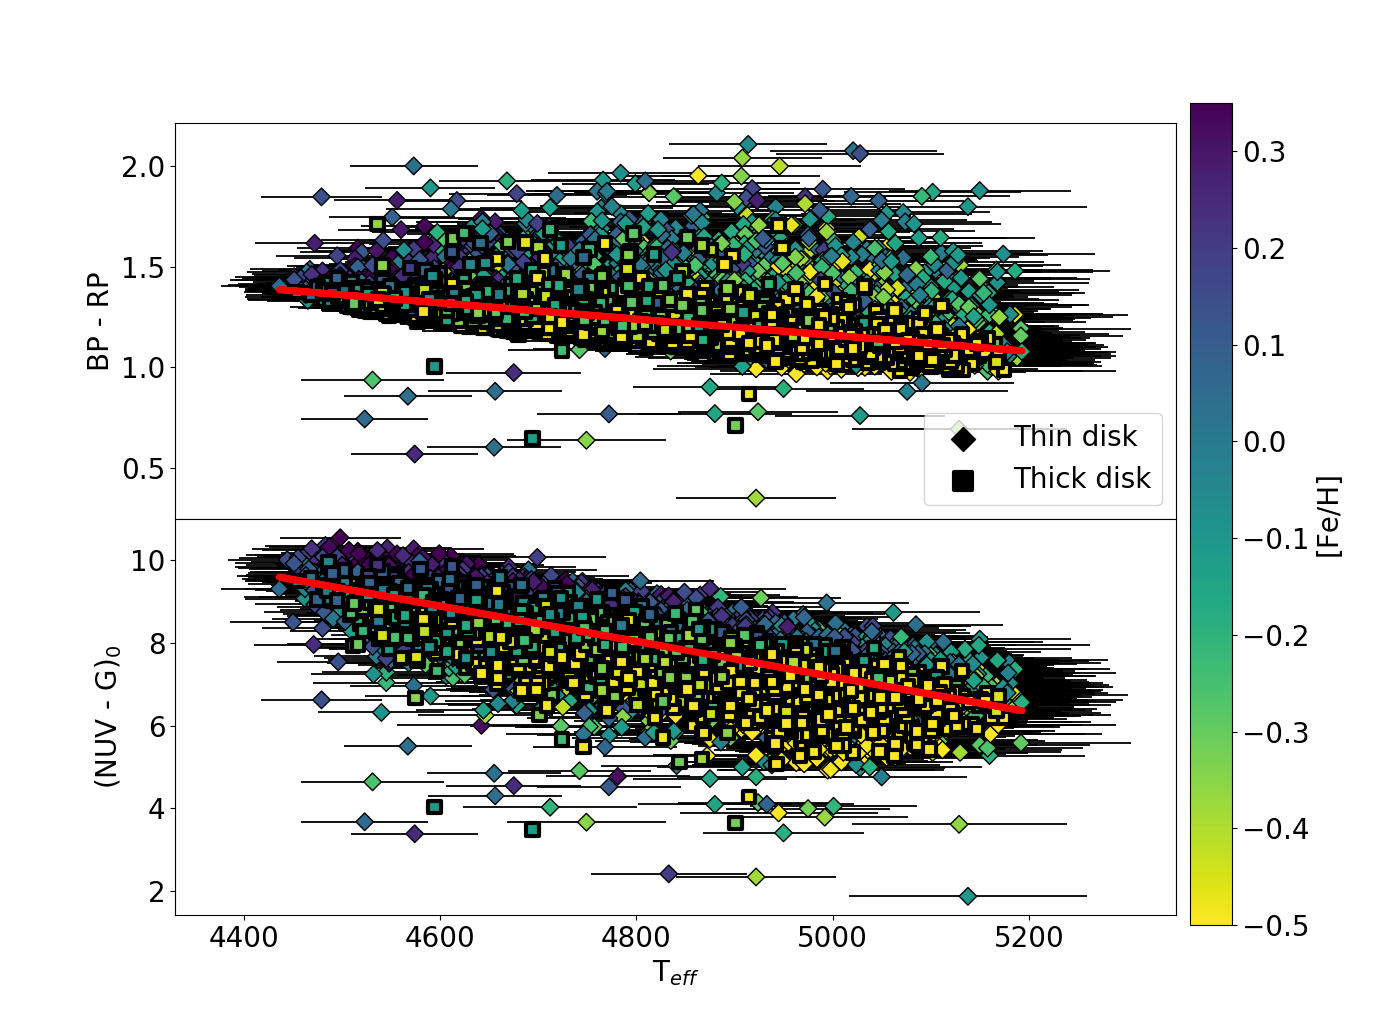
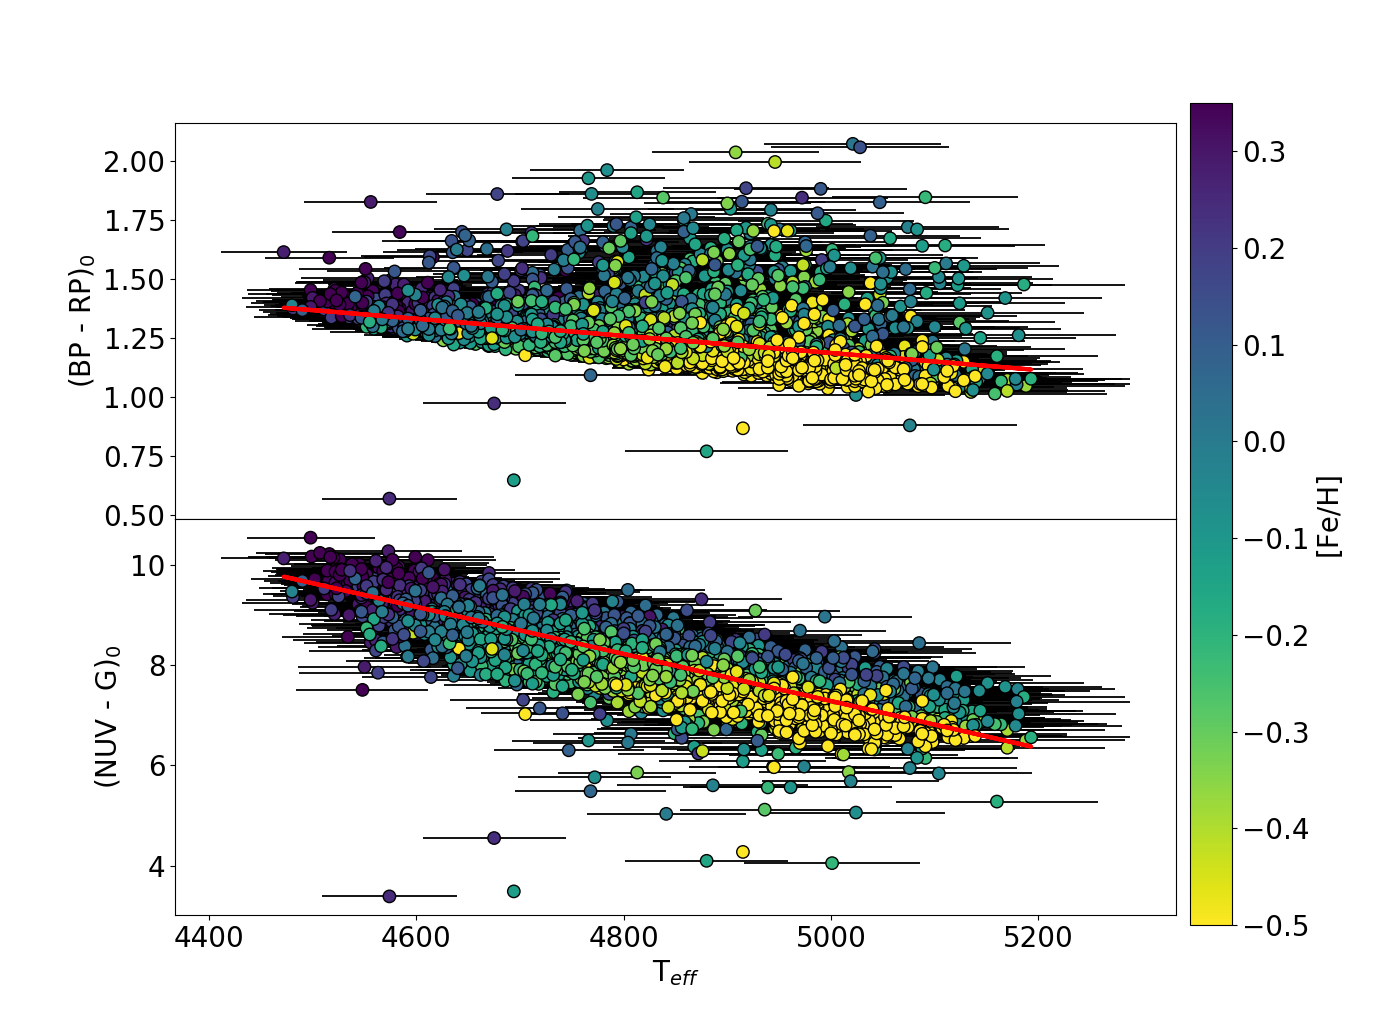
new paper plots

diff --git a/pipeline/misc.py b/pipeline/misc.py
@@ -546,10 +546,11 @@ for scan in pscats:
 ######################################################################
 # Color vs TEFF vs Fe/H
 ######################################################################
-m = (0.095-.21)/(0+0.8)
-b = 0.095
+m = (0.265-0.065)/(-0.88-0.02)
+b = 0.0694
 thick, = np.where((rc['ALPHAFE'] > 0.08) & (rc['ALPHAFE'] > (m*rc['FE_H'] + b)))
 thin, = np.where((rc['ALPHAFE'] < 0.08) | (rc['ALPHAFE'] < (m*rc['FE_H'] + b)))
+
 #y1 = (rc['B_apass']-rc['ebv']*3.626)-(rc['V_apass']-rc['ebv']*2.742)
 y1 = rc['phot_bp_mean_mag']-rc['phot_rp_mean_mag']
 y2 = (rc['nuv_mag']-rc['ebv']*7.24)-(rc['phot_g_mean_mag']-rc['ebv']*3.303)
@@ -562,22 +563,22 @@ line2 = m2*x + b2
 err2 = np.sqrt(np.sum((line2-y2)**2/len(y2)))
 
 fig, (ax1, ax2) = plt.subplots(2, 1)
-cmap = ax1.scatter(x[thin], y1[thin], s=80, c=rc['FE_H'][thin], cmap=cm.viridis_r, vmin=-.5, vmax=.35, marker='D', label='Thin disk', edgecolor='black')
-ax1.scatter(x[thick], y1[thick], s=80, c=rc['FE_H'][thick], cmap=cm.viridis_r, vmin=-.5, vmax=.35, marker='s', label='Thick disk', edgecolor='black', linewidth=3)
+cmap = ax1.scatter(x[thin], y1[thin], s=80, c=rc['FE_H'][thin], cmap=cm.viridis_r, vmin=-.5, vmax=.35, label='Thin disk', edgecolor='black')
+ax1.scatter(x[thick], y1[thick], s=80, c=rc['FE_H'][thick], cmap=cm.viridis_r, vmin=-.5, vmax=.35, label='Thick disk', edgecolor='black', linewidth=1)
 #ax1.errorbar(x[thin], y1[thin], xerr=rc['TEFF_ERR'][thin], yerr=(rc['Berr_apass']-rc['Verr_apass'])[thin], ecolor='black', fmt=None, marker=None, mew=0, elinewidth=1.3, **{"zorder":0})
 ax1.errorbar(x[thin], y1[thin], xerr=rc['TEFF_ERR'][thin], ecolor='black', fmt=None, marker=None, mew=0, elinewidth=1.3, **{"zorder":0})
 
-ax1.plot(x, line1, linewidth=5, c='red', zorder=10)
+ax1.plot(x, line1, linewidth=3, c='red', zorder=10)
 
-ax2.scatter(x[thin], y2[thin], s=80, c=rc['FE_H'][thin], cmap=cm.viridis_r, vmin=-.5, vmax=.35, marker='D', edgecolor='black')
-ax2.scatter(x[thick], y2[thick], s=80, c=rc['FE_H'][thick], cmap=cm.viridis_r, vmin=-.5, vmax=.35, marker='s', edgecolor='black', linewidth=3)
+ax2.scatter(x[thin], y2[thin], s=80, c=rc['FE_H'][thin], cmap=cm.viridis_r, vmin=-.5, vmax=.35, edgecolor='black')
+ax2.scatter(x[thick], y2[thick], s=80, c=rc['FE_H'][thick], cmap=cm.viridis_r, vmin=-.5, vmax=.35, edgecolor='black', linewidth=1)
 #ax2.errorbar(x[thin], y2[thin], xerr=rc['TEFF_ERR'][thin], yerr=(rc['nuv_magerr']-rc['Gerr'])[thin], ecolor='black', fmt=None, marker=None, mew=0, elinewidth=1.3, **{"zorder":0})
 ax2.errorbar(x[thin], y2[thin], xerr=rc['TEFF_ERR'][thin], ecolor='black', fmt=None, marker=None, mew=0, elinewidth=1.3, **{"zorder":0})
 
-ax2.plot(x, line2, linewidth=5, c='red', zorder=10)
+ax2.plot(x, line2, linewidth=3, c='red', zorder=10)
 
 #ax1.set_xlabel('T$_{eff}$')
-ax1.set_ylabel('BP - RP')
+ax1.set_ylabel('(BP - RP)$_0$')
 ax2.set_xlabel('T$_{eff}$')
 ax2.set_ylabel('(NUV - G)$_0$')
 #ax1.set_xlim((4300, 5200))
@@ -587,11 +588,13 @@ ax2.set_ylabel('(NUV - G)$_0$')
 fig.subplots_adjust(right=.84)
 fig.subplots_adjust(hspace=0)
 ax1.set_xticklabels([])
+'''
 leg = ax1.legend(scatterpoints=1)
 leg.legendHandles[0].set_color('black')
 leg.legendHandles[1].set_color('black')
 leg.legendHandles[0]._sizes = [150]
 leg.legendHandles[1]._sizes = [150]
+'''
 cbar_ax = fig.add_axes([0.85, 0.1, 0.03, 0.8])
 plt.colorbar(cmap, cax=cbar_ax).set_label('[Fe/H]')
 plt.show()
@@ -601,13 +604,16 @@ plt.show()
 # Alpha/Fe vs Fe/H vs NUV - G
 ##########################################
 rc = fits.open('asc_gaia_aporc_match_dust-05-03-18.fits')[1].data
-q = np.where((rc['ebv'] > 0) & (rc['Fe_H_err'] > 0) & (rc['phot_bp_mean_mag'] > 0) & (rc['phot_rp_mean_mag'] > 0) & (rc['Classification'] == 'RC_Pristine'))rc = rc[q]
+q = np.where((rc['ebv'] > 0) & (rc['Fe_H_err'] > 0) & (rc['phot_bp_mean_mag'] > 0) & (rc['phot_rp_mean_mag'] > 0) & (rc['Classification'] == 'RC_Pristine'))
+rc = rc[q]
 
-m = (0.095-.21)/(0+0.8)
-b = 0.095
+m = (0.265-0.065)/(-0.88-0.02)
+b = 0.0694
 thick,= np.where((rc['ALPHAFE'] > 0.08) & (rc['ALPHAFE'] > (m*rc['FE_H'] + b)))
 thin,= np.where((rc['ALPHAFE'] < 0.08) | (rc['ALPHAFE'] < (m*rc['FE_H'] + b)))
 nuvg = ((rc['nuv_mag']-rc['ebv']*7.24)-(rc['phot_g_mean_mag']-rc['ebv']*3.303))
+
+extrathick, = np.where((rc['FE_H'] > 0.02) & (rc['ALPHAFE'] > 0.065))
 
 #afe_apo = np.where(rc['ALPHA_M'] > 0)
 #rc['ALPHAFE'][afe_apo] = (rc['ALPHA_M'] + rc['M_H'] - rc['FE_H'])[afe_apo]
@@ -623,8 +629,9 @@ plt.scatter(rc['FE_H'][thick], rc['ALPHAFE'][thick], c=nuvg[thick], s=20, marker
 #plt.errorbar(rc['FE_H'], rc['ALPHAFE'], xerr=(rc['FE_H_err']), yerr=rc['ALPHAFE_ERR'], ecolor='black', fmt=None, marker=None, mew=0, elinewidth=1.3, **{"zorder":0})
 plt.errorbar(rc['Fe_H'], rc['ALPHAFE'], xerr=(rc['FE_H_err']), ecolor='black', fmt=None, marker=None, mew=0, elinewidth=1.3, **{"zorder":0})
 
-xpfeh = np.linspace(-1.0, 0.4, 50)
-plt.plot(xpfeh, xpfeh*m + b)
+xpfeh = np.linspace(-1, 0.02, 50)
+plt.plot(xpfeh, xpfeh*m + b, c='black', linewidth=3)
+plt.axhline(y=0.065, xmin=0.68, xmax=0.94, c='black', linewidth=3)
 
 #plt.scatter(rc['FE_H'][thin], rc['ALPHAFE'][thin], s=20, edgecolor='none', label='Thin disk', vmin=7, vmax=11, marker='D')
 
@@ -633,8 +640,8 @@ plt.plot(xpfeh, xpfeh*m + b)
 
 plt.xlabel('[Fe/H]')
 plt.ylabel(r'[$\alpha$/Fe]')
-#plt.xlim((-0.7, 0.5))
-#plt.ylim((-0.05, 0.3))
+plt.xlim((-1.2, 0.6))
+plt.ylim((-0.1, 0.4))
 plt.colorbar().set_label('(NUV - G)$_0$')
 leg = plt.legend(scatterpoints=1)
 leg.legendHandles[0].set_color('black')
@@ -647,11 +654,11 @@ plt.show()
 # rc fit lines for Fe/H vs NUV - G vs Alpha/Fe
 #################################################
 rc = fits.open('asc_gaia_aporc_match_dust-05-03-18.fits')[1].data
-q = np.where((rc['ebv'] > 0) & (rc['Fe_H_err'] > 0) & (rc['phot_bp_mean_mag'] > 0) & (rc['phot_rp_mean_mag'] > 0) & (rc['Classification'] == 'RC_Pristine'))
+q = np.where((rc['ebv'] > 0) & (rc['Fe_H_err'] > 0) & (rc['phot_bp_mean_mag'] > 0) & (rc['phot_rp_mean_mag'] > 0) & (rc['Classification'] == 'RC_Pristine') & (rc['dist'] < 3500) & (rc['visibility_periods_used'] > 8) & (rc['parallax_error']/rc['parallax'] < 0.1))
 rc = rc[q]
 
-m = (0.095-.21)/(0+0.8)
-b = 0.095
+m = (0.265-0.065)/(-0.88-0.02)
+b = 0.0694
 thick,= np.where((rc['ALPHAFE'] > 0.08) & (rc['ALPHAFE'] > (m*rc['FE_H'] + b)))
 thin,= np.where((rc['ALPHAFE'] < 0.08) | (rc['ALPHAFE'] < (m*rc['FE_H'] + b)))
 
@@ -701,66 +708,77 @@ bthickerr = np.sum(np.sqrt(np.diag(vbthick)))
 xp = np.linspace(6, 11, 50)
 
 
+fig, ((ax1, ax2), (ax3, ax4), (ax5, ax6)) = plt.subplots(3, 2, sharex=True, sharey=True)
 
-thickcut = 0
-thincut = 1
-
-fig, (ax1, ax2) = plt.subplots(1, 2, sharey=True)
-
-alpha = 1
 # Plotting with no dust correction first
+# No dust, all points
+cmap = ax1.scatter(xa1[thin], y1[thin], c=rc['ALPHAFE'][thin], s=80, vmin=-0.05, vmax=0.3, marker='D', edgecolor='black', cmap=cm.plasma_r, **{"zorder":5})
+ax1.errorbar(xa1[thin], y1[thin], xerr=(rc['nuv_magerr'])[thin], yerr=rc['FE_H_ERR'][thin], ecolor='black', fmt='None', marker='None', mew=0, elinewidth=1.3, **{"zorder":0})
 
-if thincut == 1:
-	cmap = ax1.scatter(xa1[thin], y1[thin], c=rc['ALPHAFE'][thin], s=80, vmin=-0.05, vmax=0.3, marker='D', alpha=alpha, edgecolor='black', cmap=cm.plasma_r, **{"zorder":5})
-	ax1.errorbar(xa1[thin], y1[thin], xerr=(rc['nuv_magerr'])[thin], yerr=rc['FE_H_ERR'][thin], ecolor='black', fmt='None', marker='None', mew=0, elinewidth=1.3, **{"zorder":0})
-	ax2.scatter(xb1[thin], y1[thin], c=rc['ALPHAFE'][thin], s=80, label='Thin disk', vmin=-0.05, vmax=0.3, marker='D', edgecolor='black', cmap=cm.plasma_r, **{"zorder":5})
-	ax2.errorbar(xb1[thin], y1[thin], xerr=(rc['nuv_magerr'])[thin], yerr=rc['FE_H_ERR'][thin], ecolor='black', fmt='None', marker='None', mew=0, elinewidth=1.3, **{"zorder":0})
-	ax1.scatter(xa1[w], y1[w], c=rc['ALPHAFE'][w], s=80, vmin=-0.05, vmax=0.3, marker='D', cmap=cm.plasma_r, edgecolor='red', linewidth=2, **{"zorder":5})
-	ax2.scatter(xb1[w], y1[w], c=rc['ALPHAFE'][w], s=80, vmin=-0.05, vmax=0.3, marker='D', cmap=cm.plasma_r, edgecolor='red', linewidth=2, **{"zorder":5})
+ax1.scatter(xa1[thick], y1[thick], c=rc['ALPHAFE'][thick], s=80, vmin=-0.05, vmax=0.3, marker='s', edgecolor='black', cmap=cm.plasma_r, **{"zorder":5})
+ax1.errorbar(xa1[thick], y1[thick], xerr=(rc['nuv_magerr'])[thick], yerr=rc['FE_H_ERR'][thick], ecolor='black', fmt='None', marker='None', mew=0, elinewidth=1.3, **{"zorder":0})
+ax1.plot(xp, pa1(xp), linewidth=4, c='black', zorder=10) 
 
-if thickcut == 1:
-	cmap = ax1.scatter(xa1[thick], y1[thick], c=rc['ALPHAFE'][thick], s=80, vmin=-0.05, vmax=0.3, marker='s', edgecolor='blue', linewidth=1, alpha=alpha, cmap=cm.plasma_r, **{"zorder":5})
-	ax1.errorbar(xa1[thick], y1[thick], xerr=(rc['nuv_magerr'])[thick], yerr=rc['FE_H_ERR'][thick], ecolor='black', fmt='None', marker='None', mew=0, elinewidth=1.3, **{"zorder":0})
+# Dust, all points
+ax2.scatter(xb1[thin], y1[thin], c=rc['ALPHAFE'][thin], s=80, vmin=-0.05, vmax=0.3, marker='D', edgecolor='black', cmap=cm.plasma_r, **{"zorder":5})
+ax2.errorbar(xb1[thin], y1[thin], xerr=(rc['nuv_magerr'])[thin], yerr=rc['FE_H_ERR'][thin], ecolor='black', fmt='None', marker='None', mew=0, elinewidth=1.3, **{"zorder":0})
+ax2.scatter(xb1[thick], y1[thick], c=rc['ALPHAFE'][thick], s=80, vmin=-0.05, vmax=0.3, marker='s', edgecolor='black', cmap=cm.plasma_r, **{"zorder":5})
+ax2.errorbar(xb1[thick], y1[thick], xerr=(rc['nuv_magerr'])[thick], yerr=rc['FE_H_ERR'][thick], ecolor='black', fmt='None', marker='None', mew=0, elinewidth=1.3, **{"zorder":0})
 
-	ax2.scatter(xb1[thick], y1[thick], c=rc['ALPHAFE'][thick], s=80, label='Thick disk', vmin=-0.05, vmax=0.3, marker='s', edgecolor='blue', linewidth=1, cmap=cm.plasma_r, **{"zorder":5})
+ax2.plot(xp, pb1(xp), linewidth=4, c='black', zorder=10)
 
-	ax2.errorbar(xb1[thick], y1[thick], xerr=(rc['nuv_magerr'])[thick], yerr=rc['FE_H_ERR'][thick], ecolor='black', fmt='None', marker='None', mew=0, elinewidth=1.3, **{"zorder":0})
+# No dust, thin disk
+ax3.scatter(xa1[thin], y1[thin], c=rc['ALPHAFE'][thin], s=80, vmin=-0.05, vmax=0.3, marker='D', edgecolor='black', cmap=cm.plasma_r, **{"zorder":5})
+ax3.errorbar(xa1[thin], y1[thin], xerr=(rc['nuv_magerr'])[thin], yerr=rc['FE_H_ERR'][thin], ecolor='black', fmt='None', marker='None', mew=0, elinewidth=1.3, **{"zorder":0})
+ax3.plot(xp, pathin(xp), linewidth=4, c='black', zorder=10)
 
-#ax1.plot(xp, pa1(xp), linewidth=4, c='red', zorder=10) # no dust, all points
-#ax1.plot(xp, pa2(xp), linewidth=4, c='black', zorder=10) # no dust, only black points
-#ax2.plot(xp, pb1(xp), linewidth=4, c='red', zorder=10)
-#ax2.plot(xp, pb2(xp), linewidth=4, c='black', zorder=10)
+# Dust, thin disk
+ax4.scatter(xb1[thin], y1[thin], c=rc['ALPHAFE'][thin], s=80, vmin=-0.05, vmax=0.3, marker='D', edgecolor='black', cmap=cm.plasma_r, **{"zorder":5})
+ax4.errorbar(xb1[thin], y1[thin], xerr=(rc['nuv_magerr'])[thin], yerr=rc['FE_H_ERR'][thin], ecolor='black', fmt='None', marker='None', mew=0, elinewidth=1.3, **{"zorder":0})
+ax4.plot(xp, pbthin(xp), linewidth=4, c='black', zorder=10)
 
-ax1.plot(xp, pathin(xp), linewidth=4, c='green', label='thin', zorder=10)
-ax1.plot(xp, pathick(xp), linewidth=4, c='gray', label='thick', zorder=10)
+# No dust, thick disk
+ax5.scatter(xa1[thick], y1[thick], c=rc['ALPHAFE'][thick], s=80, vmin=-0.05, vmax=0.3, marker='s', edgecolor='black', cmap=cm.plasma_r, **{"zorder":5})
+ax5.errorbar(xa1[thick], y1[thick], xerr=(rc['nuv_magerr'])[thick], yerr=rc['FE_H_ERR'][thick], ecolor='black', fmt='None', marker='None', mew=0, elinewidth=1.3, **{"zorder":0})
+ax5.plot(xp, pathick(xp), linewidth=4, c='black', zorder=10)
 
-ax2.plot(xp, pbthin(xp), linewidth=4, c='green', zorder=10)
-ax2.plot(xp, pbthick(xp), linewidth=4, c='gray', zorder=10)
+# Dust, thick disk
+ax6.scatter(xb1[thick], y1[thick], c=rc['ALPHAFE'][thick], s=80, vmin=-0.05, vmax=0.3, marker='s', edgecolor='black', cmap=cm.plasma_r, **{"zorder":5})
+ax6.errorbar(xb1[thick], y1[thick], xerr=(rc['nuv_magerr'])[thick], yerr=rc['FE_H_ERR'][thick], ecolor='black', fmt='None', marker='None', mew=0, elinewidth=1.3, **{"zorder":0})
+ax6.plot(xp, pbthick(xp), linewidth=4, c='black', zorder=10)
 
-ax1.set_xlabel('NUV - G')
-ax2.set_xlabel('(NUV - G)$_{0}$')
+
+ax5.set_xlabel('NUV - G')
+ax6.set_xlabel('(NUV - G)$_{0}$')
 ax1.set_ylabel('[Fe/H]')
-leg = ax2.legend(scatterpoints=1, loc=4)
-leg.legendHandles[0].set_color('black')
+ax3.set_ylabel('[Fe/H]')
+ax5.set_ylabel('[Fe/H]')
+ax6.legend(scatterpoints=1, loc="lower right")
+#leg.legendHandles[0].set_color('black')
 #leg.legendHandles[1].set_color('black')
-leg.legendHandles[0]._sizes = [150]
+#leg.legendHandles[0]._sizes = [150]
 #leg.legendHandles[1]._sizes = [150]
+ax1.set_ylim(-1.4,0.6)
 fig.subplots_adjust(wspace=0)
 fig.subplots_adjust(right=.84)
 cbar_ax = fig.add_axes([0.85, 0.1, 0.03, 0.8])
-ax1.annotate('[Fe/H] = 0.26 * (NUV-G) - 2.30', xy=(2, 0.69), color='red', size=15)
-ax1.annotate('[Fe/H] = 0.27 * (NUV-G) - 2.37 ', xy=(2, 0.6), color='black', size=15)
-ax2.annotate('[Fe/H] = 0.26 * (NUV-G)$_0$ - 2.29', xy=(1.3, 0.69), color='red', size=15)
-ax2.annotate('[Fe/H] = 0.27 * (NUV-G)$_0$ - 2.38', xy=(1.3, 0.6), color='black', size=15)
+ax1.annotate('[Fe/H] = 0.26 * (NUV-G) - 2.30', xy=(2.9, -1.4), color='red', size=13)
+ax2.annotate('[Fe/H] = 0.26 * (NUV-G)$_0$ - 2.29', xy=(2.9, -1.4), color='red', size=13)
 
-ax1.annotate('$\sigma$ = 0.023', xy=(2, 0.53), color='red', size=15) # a1
-ax1.annotate('$\sigma$ = 0.022', xy=(2, 0.45), color='black', size=15) # a2
-ax2.annotate('$\sigma$ = 0.023', xy=(1.3, 0.53), color='red', size=15) # b1
-ax2.annotate('$\sigma$ = 0.023', xy=(1.3, 0.45), color='black', size=15) # b2
-if thincut == 1:
-	plt.suptitle('Only thin disk')
-if thickcut == 1:
-	plt.suptitle('Only thick disk')
+ax3.annotate('[Fe/H] = 0.21 * (NUV-G) - 1.90', xy=(2.9, -1.4), color='red', size=13)
+ax4.annotate('[Fe/H] = 0.22 * (NUV-G)$_0$ - 1.90', xy=(2.9, -1.4), color='red', size=13)
+
+ax5.annotate('[Fe/H] = 0.27 * (NUV-G) - 2.55', xy=(2.9, -1.4), color='red', size=13)
+ax6.annotate('[Fe/H] = 0.29 * (NUV-G)$_0$ - 2.63', xy=(2.9, -1.4), color='red', size=13)
+
+#ax1.annotate('[Fe/H] = 0.27 * (NUV-G) - 2.37 ', xy=(2, 0.6), color='black', size=15)
+#ax2.annotate('[Fe/H] = 0.26 * (NUV-G)$_0$ - 2.29', xy=(1.3, 0.69), color='red', size=15)
+#ax2.annotate('[Fe/H] = 0.27 * (NUV-G)$_0$ - 2.38', xy=(1.3, 0.6), color='black', size=15)
+#ax1.annotate('$\sigma$ = 0.023', xy=(2, 0.53), color='red', size=15) # a1
+#ax1.annotate('$\sigma$ = 0.022', xy=(2, 0.45), color='black', size=15) # a2
+#ax2.annotate('$\sigma$ = 0.023', xy=(1.3, 0.53), color='red', size=15) # b1
+#ax2.annotate('$\sigma$ = 0.023', xy=(1.3, 0.45), color='black', size=15) # b2
+fig.subplots_adjust(hspace=0, wspace=0)
 fig.colorbar(cmap, cax=cbar_ax).set_label(r'[$\alpha$/Fe]')
 plt.show()
 
@@ -941,4 +959,9 @@ for scan in scans:
 	ascii.write(cat, 'starcat_'+scan+'_03_26_2018.txt', format='basic')
 
 
-MG > -0.1, MG < 0.9
+rccut
+6 < nuvg < 11.5, 0.9 < MG > -0.1
+
+
+
+

diff --git a/pipeline/cmd_4panel.py b/pipeline/cmd_4panel.py
@@ -42,13 +42,25 @@ if gais == 1:
     pc = 1000./asc['parallax']
     negpar = np.where(pc > 0)
     pc = pc[negpar]
-    asc = asc[negpar]
-    
+    nuv = asc['mag_nuv']
+    g = asc['phot_g_mean_mag']
+    bp = asc['phot_bp_mean_mag']
+    rp = asc['phot_rp_mean_mag']
+    ag = asc['a_g_val']
+    pc = 1000./asc['parallax']
+    negpar = np.where(pc > 0)
+    pc = pc[negpar]
+    nuv = nuv[negpar]
+    g = g[negpar]
+    bp = bp[negpar]
+    rp = rp[negpar]
+    ag = ag[negpar]
+    distmod = 5. * np.log10(pc) - 5
 
 
 
 rc = fits.open('../asc_gaia_aporc_match_dust-05-03-18.fits')[1].data
-q = np.where((rc['ebv'] > 0) & (rc['Fe_H_err'] > 0) & (rc['phot_bp_mean_mag'] > 0) & (rc['phot_rp_mean_mag'] > 0))
+q = np.where((rc['ebv'] > 0) & (rc['Fe_H_err'] > 0) & (rc['phot_bp_mean_mag'] > 0) & (rc['phot_rp_mean_mag'] > 0) & (rc['Classification'] == 'RC_Pristine') & (rc['dist'] < 3500) & (rc['visibility_periods_used'] > 8) & (rc['parallax_error']/rc['parallax'] < 0.1))
 rc = rc[q]
 
 #cmd = Table.read('../cmdfiles/cmd_merged_zt.txt', format='ascii')
@@ -77,45 +89,45 @@ if distcut == 0:
 fig, axes = plt.subplots(nrows=3, ncols=2)#, sharey=True)
 # Bottom row will be plot with no RC stars
 # panel e
-axes[2, 0].scatter((sg['B_apass']-sg['ebv']*3.626)-(sg['V_apass']-sg['ebv']*2.742), (sg['V_apass']-sg['distmod']-sg['ebv']*2.742), edgecolor='none', color='k', s=1, alpha=0.1)
+axes[2, 0].scatter((bp-ag*3.626)-(rp-ag*2.742), (g-distmod-ag*2.742), edgecolor='none', color='k', s=1, alpha=0.1)
 # panel f
-axes[2, 1].scatter((sg['nuv_mag']-sg['ebv']*7.24)-(sg['phot_g_mean_mag']-sg['ebv']*3.303), (sg['MG']-sg['ebv']*3.303), edgecolor='none', color='k', s=1, alpha=0.1)
+axes[2, 1].scatter((nuv-ag*7.24)-(g-ag*3.303), (g-distmod-ag*3.303), edgecolor='none', color='k', s=1, alpha=0.1)
 
 # B - V with no ext
 # panel a
-axes[0, 0].scatter(sg['B_apass']-sg['V_apass'], sg['V_apass']-sg['distmod'], edgecolor='none', color='k', s=1, alpha=0.1)
-axes[0, 0].scatter(rc['B_apass']-rc['V_apass'], rc['V_apass']-rc['distmod'], s=40, edgecolor='none', c=rc[cbarax], vmin=vmin, vmax=vmax, cmap=viridis)
+axes[0, 0].scatter(bp-rp, rp-distmod, edgecolor='none', color='k', s=1, alpha=0.1)
+axes[0, 0].scatter(rc['phot_bp_mean_mag']-rc['phot_bp_mean_mag'], rc['phot_g_mean_mag']-rc['distmod'], s=40, edgecolor='none', c=rc[cbarax], vmin=vmin, vmax=vmax, cmap=viridis)
 
 # B - V with ext
 # panel c
-axes[1, 0].scatter((sg['B_apass']-sg['ebv']*3.626)-(sg['V_apass']-sg['ebv']*2.742), (sg['V_apass']-sg['distmod']-sg['ebv']*2.742), edgecolor='none', color='k', s=1, alpha=0.1)
-axes[1, 0].scatter((rc['B_apass']-rc['ebv']*3.626)-(rc['V_apass']-rc['ebv']*2.742), rc['V_apass']-rc['distmod']-rc['ebv']*2.742, s=40, edgecolor='none', c=rc[cbarax], vmin=vmin, vmax=vmax, cmap=viridis)
+axes[1, 0].scatter((bp-ag*3.626)-(rp-ag*2.742), (g-distmod-ag*2.742), edgecolor='none', color='k', s=1, alpha=0.1)
+axes[1, 0].scatter((rc['phot_bp_mean_mag']-rc['ebv']*3.626)-(rc['phot_rp_mean_mag']-rc['ebv']*2.742), rc['phot_g_mean_mag']-rc['distmod']-rc['ebv']*2.742, s=40, edgecolor='none', c=rc[cbarax], vmin=vmin, vmax=vmax, cmap=viridis)
 
 # NUV - G with no ext
 # panel b
-axes[0, 1].scatter(sg['nuv_mag']-sg['phot_g_mean_mag'], sg['MG'], edgecolor='none', color='k', s=1, alpha=0.1)
+axes[0, 1].scatter(nuv-g, g-distmod, edgecolor='none', color='k', s=1, alpha=0.1)
 
-axes[0, 1].scatter(rc['nuv_mag']-rc['phot_g_mean_mag'], rc['MG'], s=40, edgecolor='none', c=rc[cbarax], vmin=vmin, vmax=vmax, cmap=viridis)
+axes[0, 1].scatter(rc['nuv_mag']-rc['phot_g_mean_mag'], rc['phot_g_mean_mag']-rc['distmod'], s=40, edgecolor='none', c=rc[cbarax], vmin=vmin, vmax=vmax, cmap=viridis)
 
 # NUV - G with ext
 # panel d
-axes[1, 1].scatter((sg['nuv_mag']-sg['ebv']*7.24)-(sg['phot_g_mean_mag']-sg['ebv']*3.303), (sg['MG']-sg['ebv']*3.303), edgecolor='none', color='k', s=1, alpha=0.1)
+axes[1, 1].scatter((nuv-ag*7.24)-(g-ag*3.303), (g-distmod-ag*3.303), edgecolor='none', color='k', s=1, alpha=0.1)
 
 cbar = axes[1, 1].scatter((rc['nuv_mag']-rc['ebv']*7.24)-(rc['phot_g_mean_mag']-rc['ebv']*3.303), rc['MG']-rc['ebv']*3.303, s=40, edgecolor='none', c=rc[cbarax], vmin=vmin, vmax=vmax, cmap=viridis)
 
 
-axes[0, 0].set_ylabel('M$_{\lambda}$')
-axes[2, 0].set_xlabel('(B - V)$_0$')
-axes[1, 0].set_ylabel('M$_{\lambda_0}$')
-axes[2, 0].set_ylabel('M$_{\lambda_0}$')
+axes[0, 0].set_ylabel('M$_{G}$')
+axes[2, 0].set_xlabel('(G$_{BP}$ - G$_{RP}$)$_0$')
+axes[1, 0].set_ylabel('M$_{G_0}$')
+axes[2, 0].set_ylabel('M$_{G_0}$')
 axes[2, 1].set_xlabel('(NUV - G)$_0$')
 
-axes[0, 0].text(-0.5, 7.8, '$\lambda$ = V, E$_{B-V}$ = 0')
-axes[0, 1].text(1.1, 7.8, '$\lambda$ = G, E$_{B-V}$ = 0')
-axes[1, 0].text(-0.5, 7.8, '$\lambda$ = V')
-axes[1, 1].text(1.1, 7.8, '$\lambda$ = G')
-axes[2, 0].text(-0.5, 7.8, '$\lambda$ = V')
-axes[2, 1].text(1.1, 7.8, '$\lambda$ = G')
+axes[0, 0].text(-0.5, 7.8, '$G$ = G, E$_{BP-RP}$ = 0')
+axes[0, 1].text(1.1, 7.8, '$G$ = G, E$_{BP-RP}$ = 0')
+axes[1, 0].text(-0.5, 7.8, '$G$ = G')
+axes[1, 1].text(1.1, 7.8, '$G$ = G')
+axes[2, 0].text(-0.5, 7.8, '$G$ = V')
+axes[2, 1].text(1.1, 7.8, '$G$ = G')
 
 
 # Label panels
